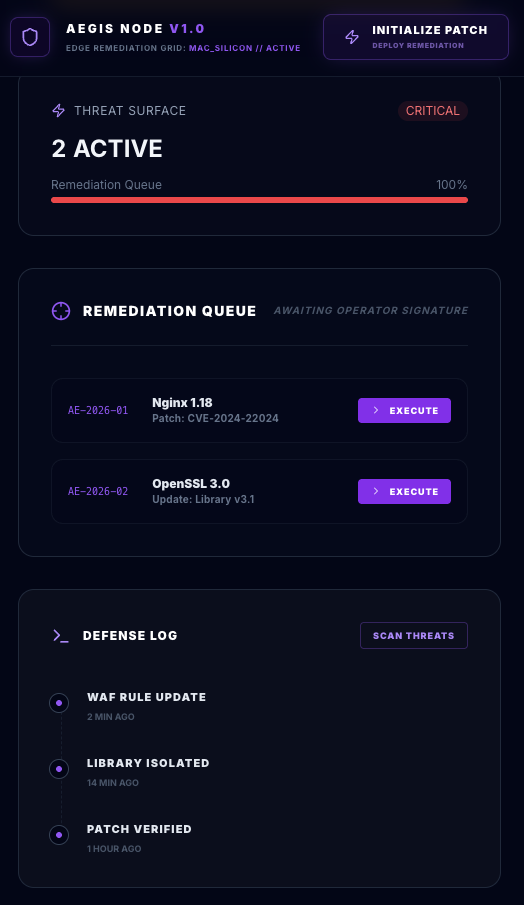
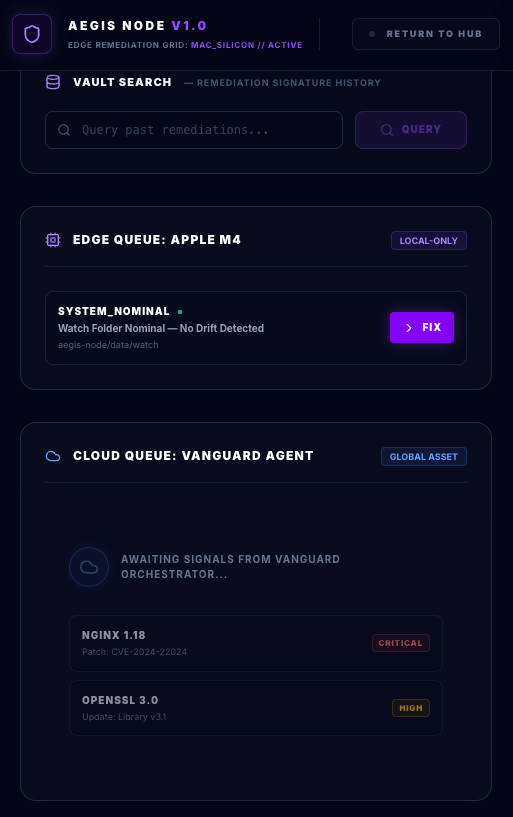
docs: update images of app in README file

diff --git a/README.md b/README.md
@@ -1,8 +1,7 @@
 # ⬢ Aegis Node: Autonomous Remediation & Multi-Layer Hardening
 
-**Response Layer for the Vanguard Protocol.**
 
-**Agentic AI - Phase 3 Active Remediation | Next.js 16 | Ollama Llama-3 | Unified Memory Optimized | macOS Native Enforcement**
+**Agentic AI - Phase 3 Active Remediation | Next.js 16 | Ollama Llama-3 | Unified Memory Optimized | macOS Native Enforcement | Response Layer for the Vanguard Protocol**
 
 ## What is Aegis Node?
 
@@ -19,9 +18,6 @@ Protocol Definition: Vanguard is a decentralized intelligence grid providing rea
 - **Ecosystem:** Vanguard Protocol
 - **Role:** Active Defense / Autonomous Remediation
 - **Primary Environment:** Apple Silicon (M4) Edge Node **(macOS Native)**
-- **Iconic Anchor:** Black Hexagon (The Matrix) ⬢
-- **Visual DNA:** Electric Shield (Electric Violet `#8b5cf6` / Obsidian Glass)
-- **Primary Environment:** Apple Silicon (M4) Edge Node
 
 ## 🛠 Technical Stack
 
@@ -32,6 +28,10 @@ Protocol Definition: Vanguard is a decentralized intelligence grid providing rea
 - **Styling:** Tailwind CSS + Lucide React
 
 ## 🖼 Product Snapshot
+
+> Aegis Node - Landing Page
+
+### ![Aegis Node - Landing Page](./docs/assets/aegis-node-landing-page.png)
 
 > Aegis Node - Defense Console
 
